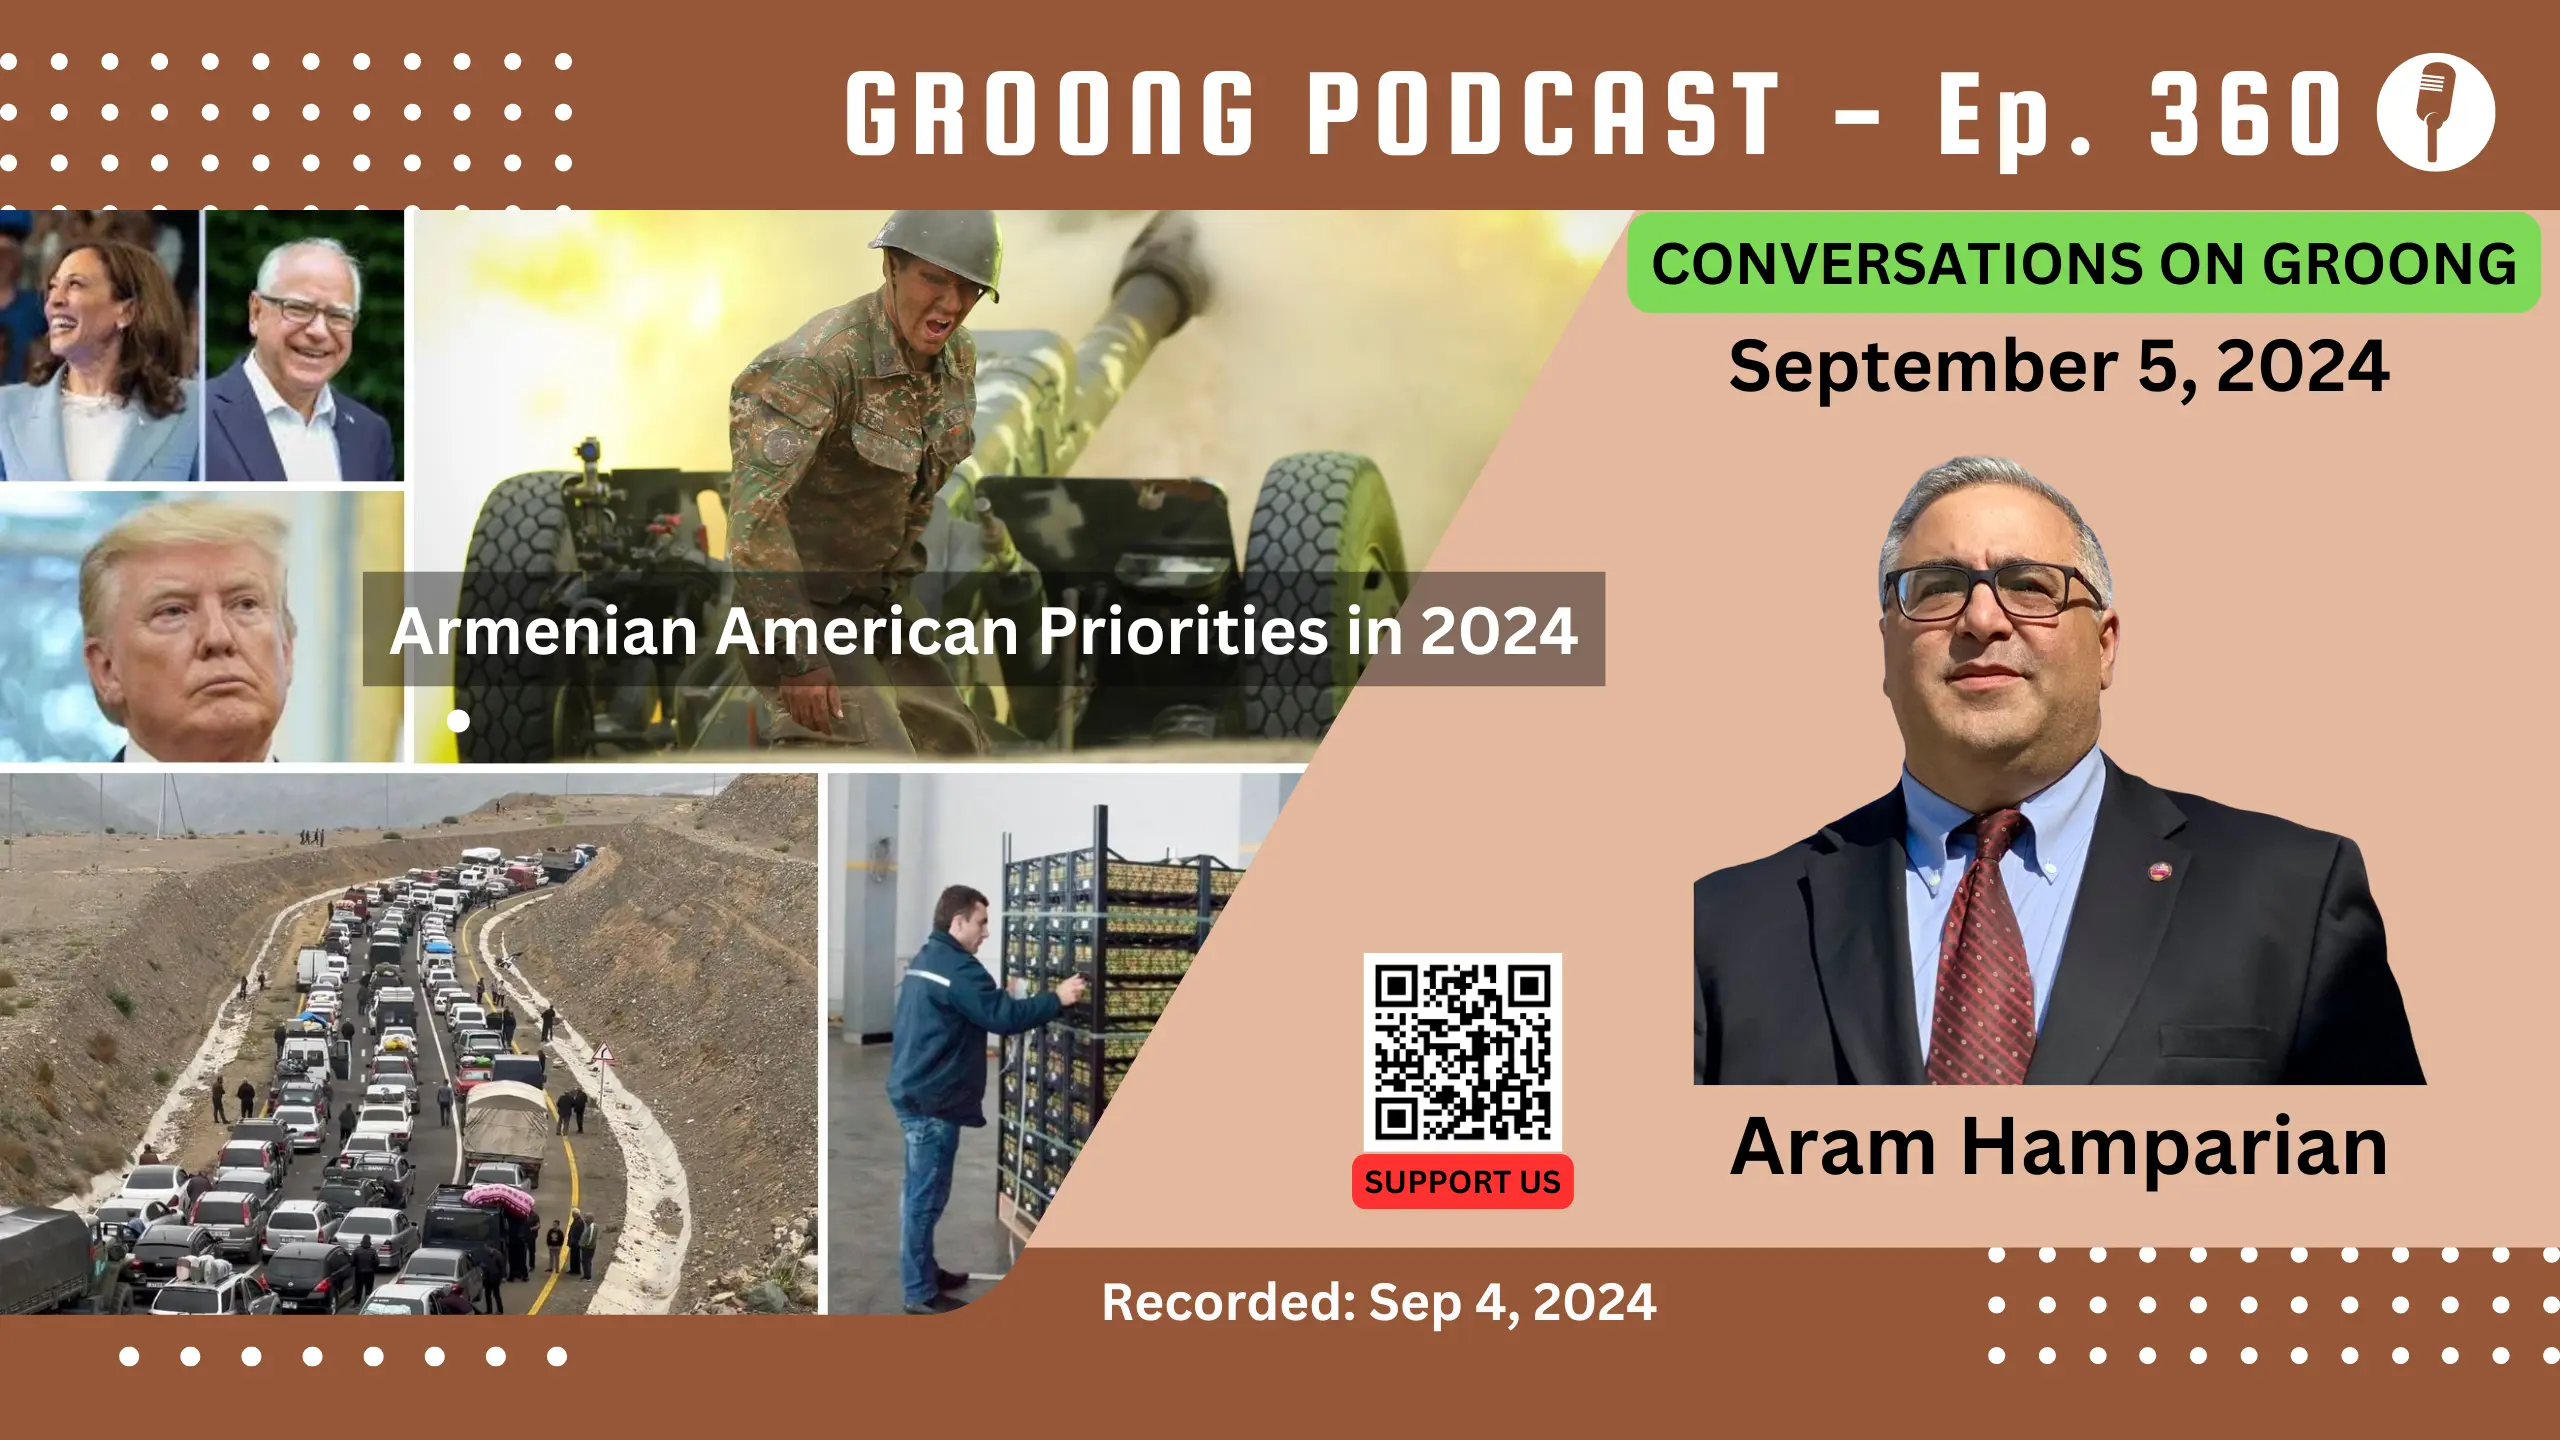
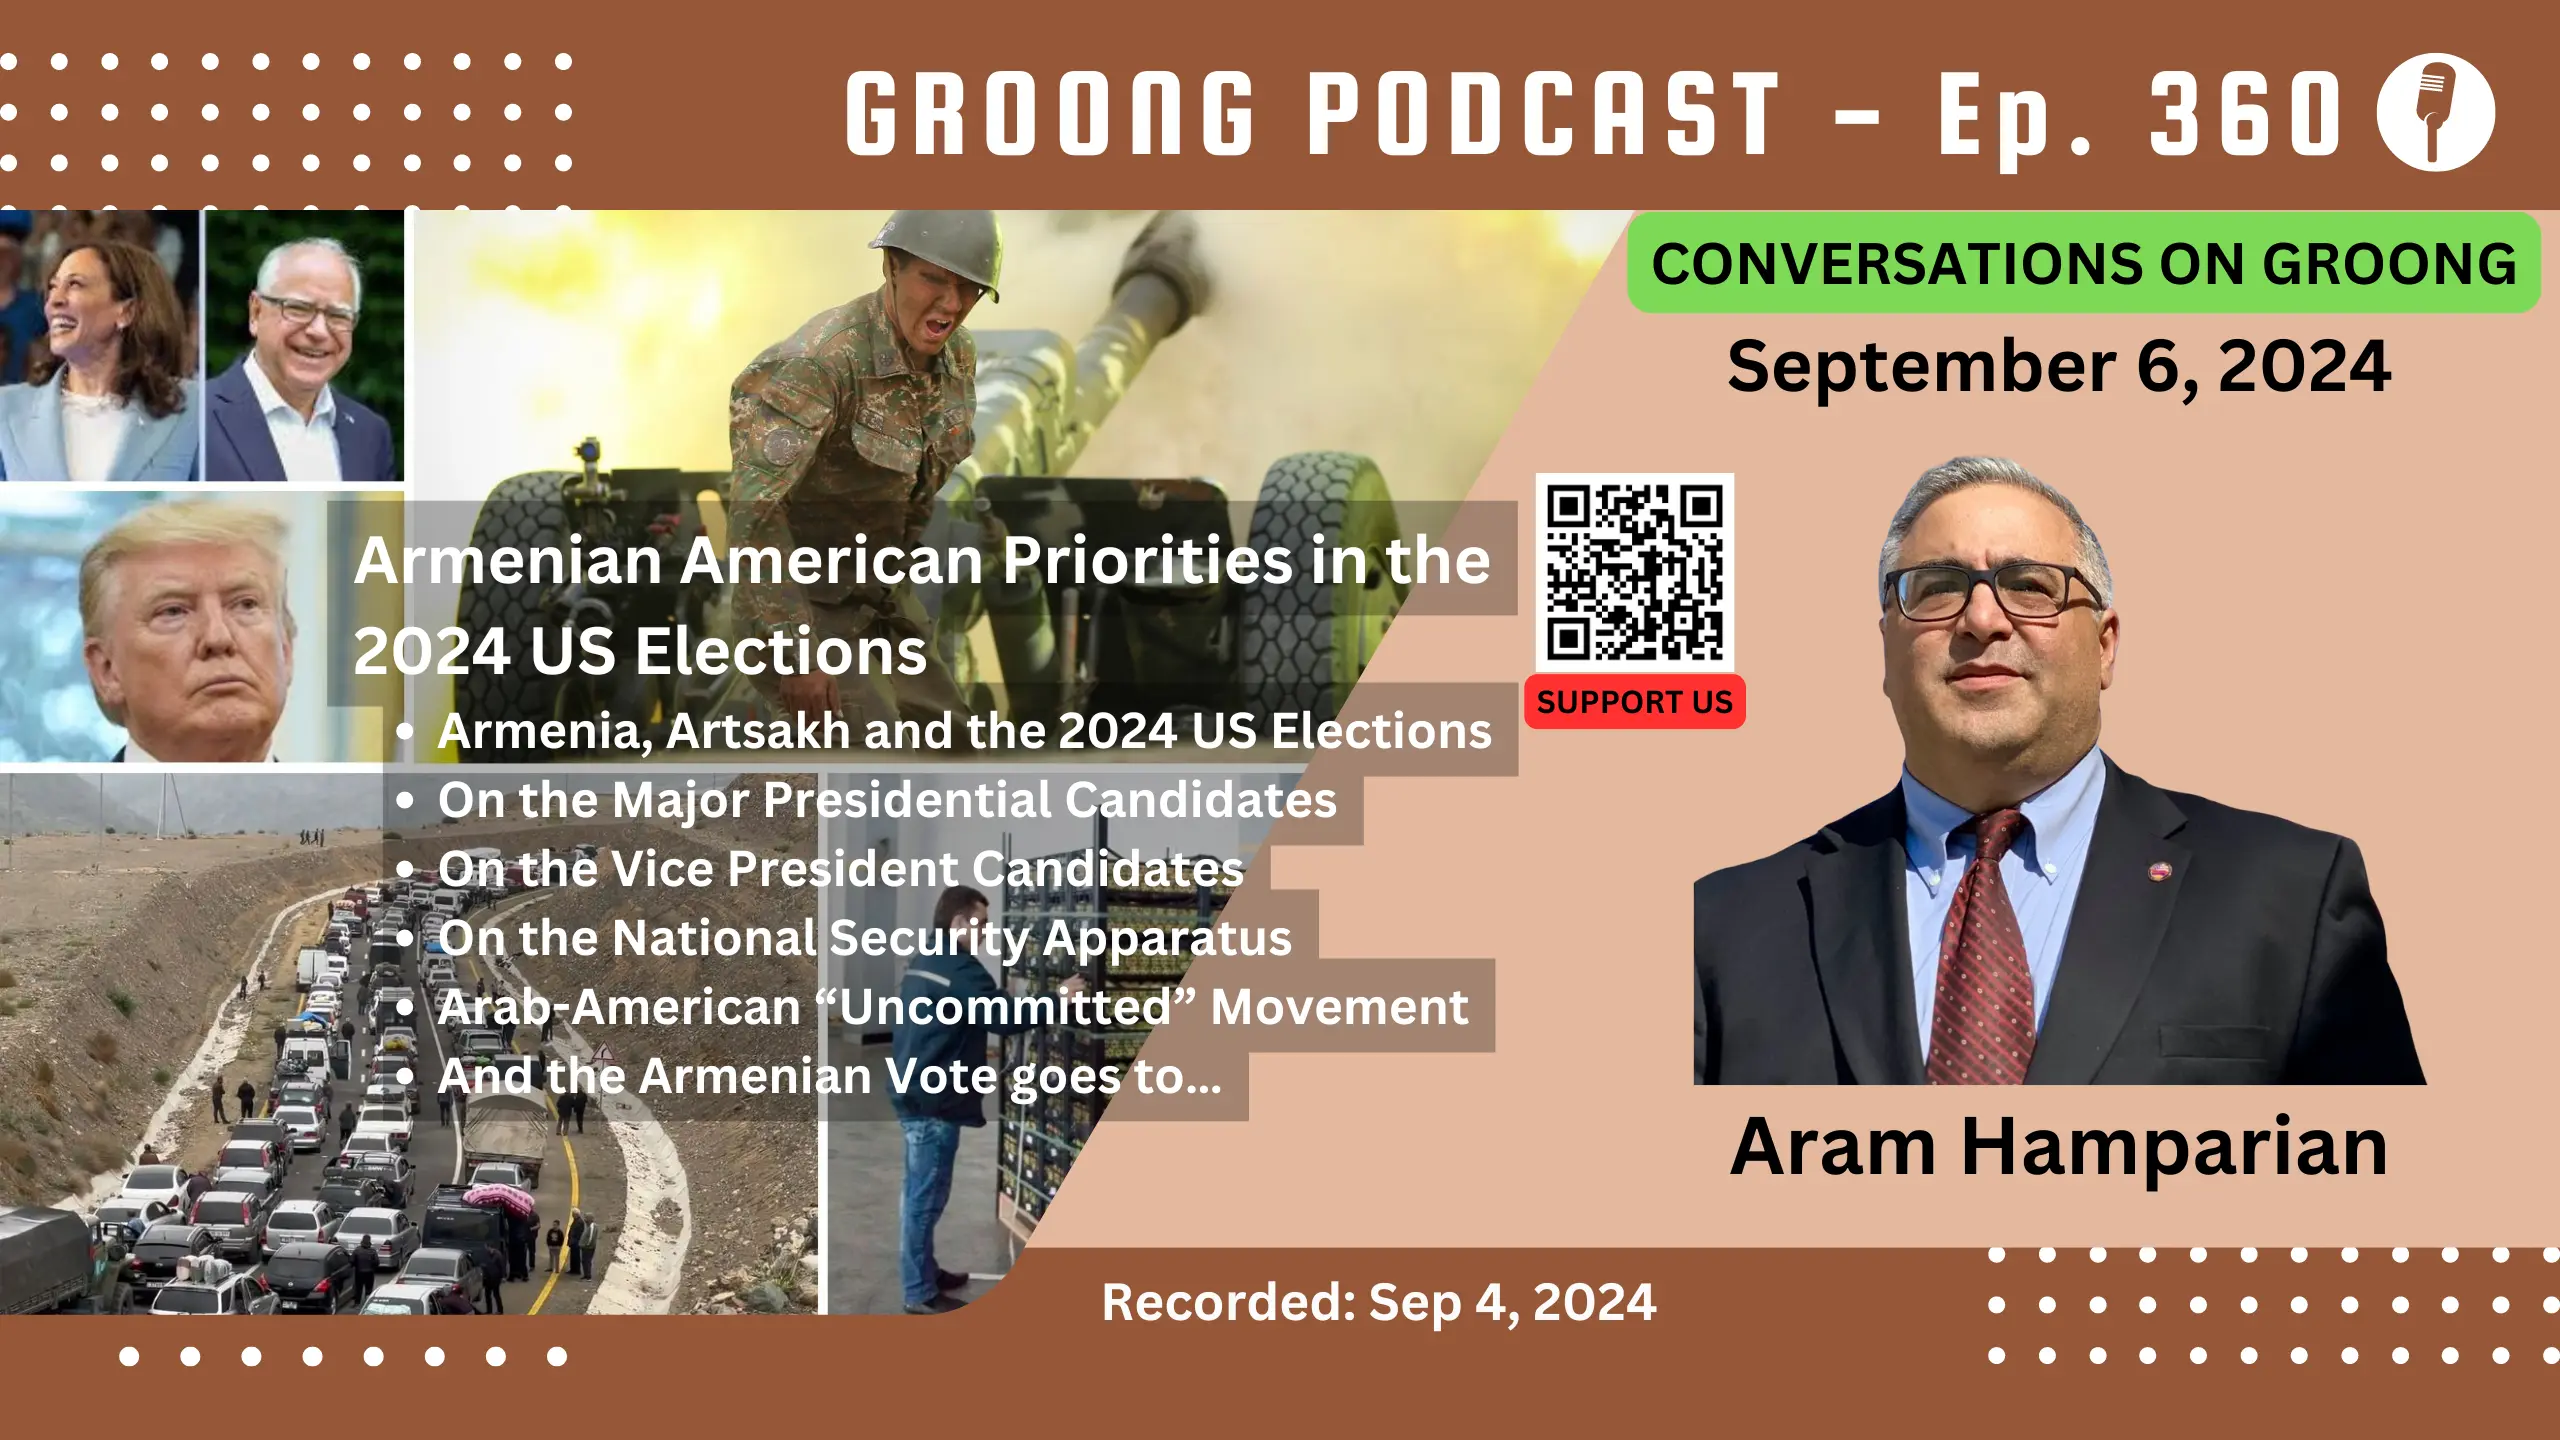
Update staged EP 360 with Aram Hamparian

Changed region(s): [[0.125, 0.3125, 0.6875, 0.8438], [0.6875, 0.2188, 0.9375, 0.2812]]

diff --git a/content/episode/360-aram-suren-hamparian-armenia-american-priorities-in-2024-elections-armenia-artsakh.md b/content/episode/360-aram-suren-hamparian-armenia-american-priorities-in-2024-elections-armenia-artsakh.md
@@ -2,7 +2,7 @@
 Date = 2024-09-06T01:00:00+04:00
 upcoming = true
 
-title = "Aram Suren Hamparian - Armenian American Priorities in 2024 | Ep 360 - Sep 6, 2024"
+title = "Aram Suren Hamparian - Armenian American Priorities in the 2024 US Elections | Ep 360 - Sep 6, 2024"
 subtitle = "Conversations on Groong - 09/06/2024"
 
 podcast_file = ""
@@ -35,7 +35,12 @@ Description = """
 * [Aram Suren Hamparian, Exec. Dir. ANCA, DC](/guest/ahamparian)
 
 #### Topics:
-* TBD
+* Armenia, Artsakh and the 2024 US Elections
+* On the Major Presidential Candidates
+* On the Vice President Candidates
+* On the National Security Apparatus
+* Arab-American “Uncommitted” Movement
+* And the Armenian Vote goes to…
 
 
 Episode 360 | Recorded: September 4, 2024
@@ -43,7 +48,48 @@ Episode 360 | Recorded: September 4, 2024
 
 +++
 
+# Armenian American Priorities in the 2024 US Elections
 
+The Democratic and Republican national conventions have come and gone with great pomp and circumstance, and we now know the major candidates vying for the presidency of the United States: Donald Trump & JD Vance on the Republican side, vs Kamala Harris and Tim Walz on the Democrat side.
+
+Aram, up until president Biden’s recognition of the Armenian Genocide, and then Congress’s near unanimous affirmation, the top Armenian-American priority in advocating for our causes was recognition of the Genocide.
+
+**Questions**:
+* What are the issues that are important for the Armenian American community during these 2024 elections?
+* How large is the Armenian American community estimated at?
+* In what states are the Armenian American communities politically active and engaged?
+* In which states are they positioned to make a difference in the outcome of the presidential, or senate or house elections?
+
+The ANC of America is one of many influential organizations in the Armenian American community landscape, but there are only a handful of real, grassroots advocacy groups.
+
+**Questions:**
+* What is the ANCA’s strategy to influence the 2024 elections in the US, to ensure positive outcomes for our community?
+* Is there cooperation across Armenian organizations for better results through solidarity?
+* Is there cooperation with other community groups, to achieve greater results together?
+* Not sure how correct this is but it has been commonly perceived that the Armenian community and the organizations are better connected with the Democrats than the Republicans? Has this been true in the past? If so, has that changed?
+
+
+## Armenia & Artsakh
+
+Trump was president from 2017-2021, and Harris has been VP in the white house from 2021 until now. During both administrations Armenia suffered catastrophic losses to Turkey and Azerbaijan, including the ethnic cleansing of Artsakh’s 150,000 Armenian population one year ago this month.
+
+Trump’s administration did nothing to prevent or stop the 44-day war in 2020, despite being fully apprised of the looming war; and the current administration did nothing to prevent the ethnic cleansing and depopulation of Artsakh in 2023.
+
+**Questions:**
+* What is ANCA’s assessment and grading for these candidates, Trump and Harris?
+    * Do their VPs matter?
+* Does the ANCA intend to recommend one candidate or another during the 2024 elections?
+* Why was nothing done to prevent the war by this administration? Was everything already being viewed through the zero sum lens of the conflict with Russia (with implied understanding that the war, regardless of outcome, would not be good for Russia)?
+
+
+### Arab-American Uncommitted Movement
+
+Since Biden’s all-in support of Israel in its war on Gaza, allocating tens of billions in aid, military and otherwise, while Israel has killed over 40,000 Palestinians, Arab-Americans have started an “Uncommitted” national movement to tell this administration that their support is not a sure thing, and they need to hear a more thoughtful and balanced US approach to the war in Gaza. One reason why their movement has legs is that Michigan, specifically the area around Dearborn, has a heavy concentration of Arab Americans who vote, and Michigan is a so-called “swing state” in the coming elections.
+
+**Questions:**
+* Do Armenians have any similar movements?
+* Armenians also have a significant presence in Michigan, would it make sense to join forces with them?
+    * In exchange, we could expect the benefit of collaboration when we have causes that can use greater numbers than we have.
 
 # Wrap-up
 
